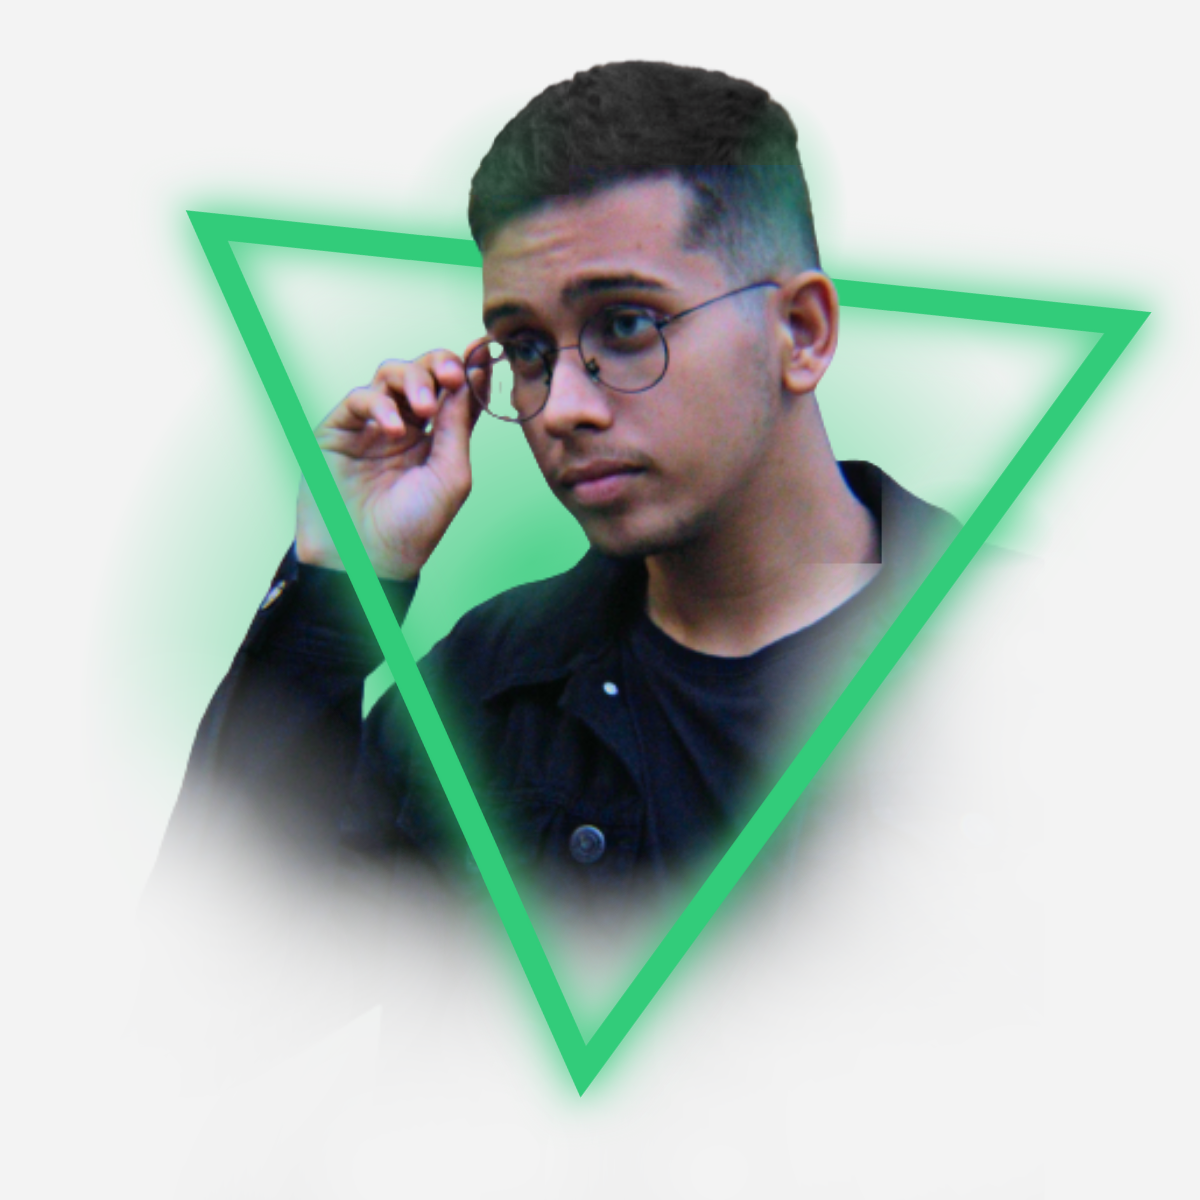
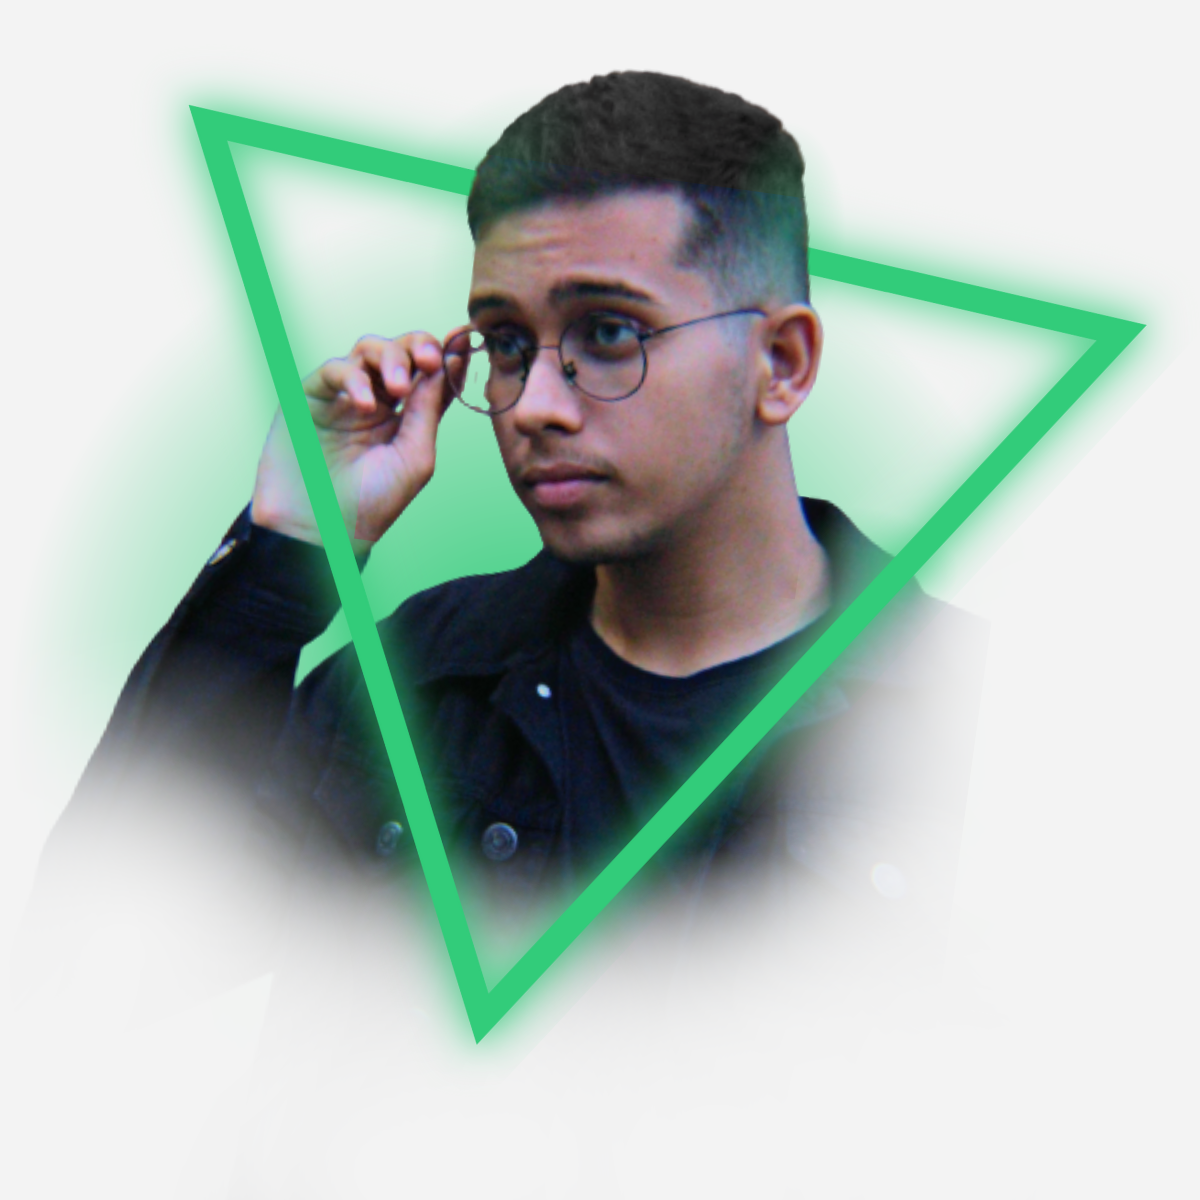
rotatinApresentationPhoto

diff --git a/css/main.css b/css/main.css
@@ -366,9 +366,6 @@ nav ul .li a:hover::after {
   margin-left: 0px;
   width: 125px; }
 
-.container .img-view .infos-align #apresentation-img {
-  rotate: 9deg; }
-
 .container .org-align .align-center span h1 {
   font-size: 2rem;
   margin-bottom: 7px;
